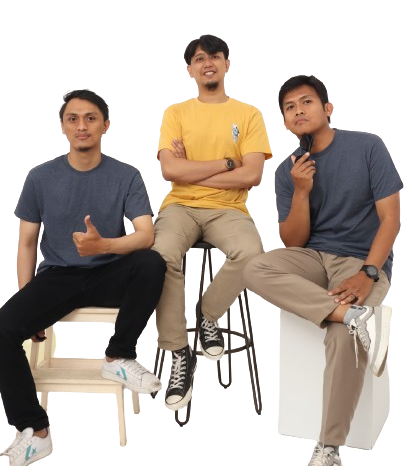
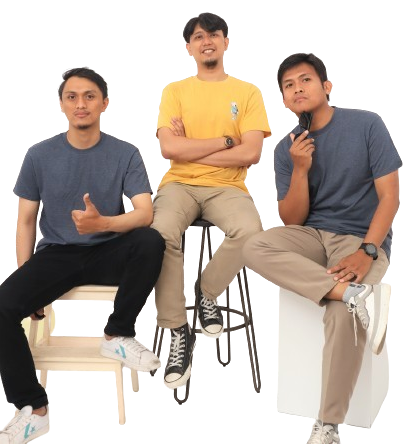
new update home and update member

diff --git a/resources/views/fe/index.blade.php b/resources/views/fe/index.blade.php
@@ -195,7 +195,7 @@
                             </div>
                             <div class="about-img-1 tw-h-full  bg-cover wow fadeInLeft" data-wow-delay=".3s" style=" margin-bottom: 0%">
                                 <img src="{{ asset('fe/assets/img/team/aboutteam3.png') }}" alt="about-img"
-                                    style="background-position: center;width:400px;">
+                                    style="background-position: center;width:450px;">
 
                             </div>
                         </div>
@@ -262,26 +262,12 @@
         </div>
         <div class="container">
             <div class=" text-center">
-                <span class="wow fadeInUp tw-text-white tw-text-4xl tw-mb-5 tw-font-semibold">Our offering</span>
+                <span class="wow fadeInUp tw-text-white tw-text-4xl tw-mb-5 tw-font-semibold">Our Offering</span>
                 <h2 class="tw-text-white wow tw-mt-5 fadeInUp" data-wow-delay=".3s">
                     Enhance and Pioneer Using <br> Technology Trends
                 </h2>
             </div>
             <div class="row tw-mt-10">
-                <div class="col-xl-2 col-lg-4 col-md-4 col-sm-6 col-6 wow fadeInUp" data-wow-delay=".2s">
-                    <div class="md:tw-w-2/3 tw-w-full py-2    fadeInUp" data-wow-delay=".2s">
-                        <div class="tw-relative tw-bg-white md:tw-my-10 tw-rounded-lg tw-shadow-lg tw-overflow-hidden">
-                            <div class="tw-flex tw-items-center tw-justify-center tw-py-2 tw-pt-5">
[1 lines of base64/hex data omitted]
-                                    class="tw-w-20 tw-h-20" alt="">
-                            </div>
-                            <div class="tw-text-center tw-py-2">
-                                <h5 class="tw-text-lg tw-font-medium">Vue Js</h5>
-                            </div>
-                        </div>
-                    </div>
-
-                </div>
                 <div class="col-xl-2 col-lg-4 col-md-4 col-sm-6  col-6 wow fadeInUp" data-wow-delay=".2s">
                     <div class="md:tw-w-2/3 tw-w-full py-2 fadeInUp" data-wow-delay=".2s">
                         <div class="tw-relative tw-bg-white md:tw-my-10 tw-rounded-lg tw-shadow-lg tw-overflow-hidden">
@@ -296,6 +282,23 @@
                     </div>
 
                 </div>
+          
+               
+                <div class="col-xl-2 col-lg-4 col-md-4 col-sm-6 col-6  wow fadeInUp" data-wow-delay=".2s">
+                    <div class="md:tw-w-2/3 tw-w-full py-2 fadeInUp" data-wow-delay=".2s">
+                        <div class="tw-relative tw-bg-white md:tw-my-10 tw-rounded-lg tw-shadow-lg tw-overflow-hidden">
+                            <div class="tw-flex tw-items-center tw-justify-center tw-py-2 tw-pt-5">
[1 lines of base64/hex data omitted]
+                                    class="tw-w-20 tw-h-20" alt="">
+                            </div>
+                            <div class="tw-text-center tw-py-2">
+                                <h5 class="tw-text-lg tw-font-medium">CodeIgniter</h5>
+                            </div>
+                        </div>
+                    </div>
+
+                </div>
+                
                 <div class="col-xl-2 col-lg-4 col-md-4 col-sm-6 col-6 wow fadeInUp" data-wow-delay=".2s">
                     <div class="md:tw-w-2/3 tw-w-full py-2 fadeInUp" data-wow-delay=".2s">
                         <div class="tw-relative tw-bg-white md:tw-my-10 tw-rounded-lg tw-shadow-lg tw-overflow-hidden">
@@ -305,6 +308,20 @@
                             </div>
                             <div class="tw-text-center tw-py-2">
                                 <h5 class="tw-text-lg tw-font-medium">Flutter</h5>
+                            </div>
+                        </div>
+                    </div>
+
+                </div>
+                <div class="col-xl-2 col-lg-4 col-md-4 col-sm-6 col-6 wow fadeInUp" data-wow-delay=".2s">
+                    <div class="md:tw-w-2/3 tw-w-full py-2    fadeInUp" data-wow-delay=".2s">
+                        <div class="tw-relative tw-bg-white md:tw-my-10 tw-rounded-lg tw-shadow-lg tw-overflow-hidden">
+                            <div class="tw-flex tw-items-center tw-justify-center tw-py-2 tw-pt-5">
[1 lines of base64/hex data omitted]
+                                    class="tw-w-20 tw-h-20" alt="">
+                            </div>
+                            <div class="tw-text-center tw-py-2">
+                                <h5 class="tw-text-lg tw-font-medium">Vue Js</h5>
                             </div>
                         </div>
                     </div>
@@ -352,20 +369,7 @@
                     </div>
 
                 </div>
-                <div class="col-xl-2 col-lg-4 col-md-4 col-sm-6 col-6  wow fadeInUp" data-wow-delay=".2s">
-                    <div class="md:tw-w-2/3 tw-w-full py-2 fadeInUp" data-wow-delay=".2s">
-                        <div class="tw-relative tw-bg-white md:tw-my-10 tw-rounded-lg tw-shadow-lg tw-overflow-hidden">
-                            <div class="tw-flex tw-items-center tw-justify-center tw-py-2 tw-pt-5">
[1 lines of base64/hex data omitted]
-                                    class="tw-w-20 tw-h-20" alt="">
-                            </div>
-                            <div class="tw-text-center tw-py-2">
-                                <h5 class="tw-text-lg tw-font-medium">CodeIgniter</h5>
-                            </div>
-                        </div>
-                    </div>
-
-                </div>
+               
                 <div class="col-xl-2 col-lg-4 col-md-4 col-sm-6 col-6 wow fadeInUp" data-wow-delay=".2s">
                     <div class="md:tw-w-2/3 tw-w-full py-2 fadeInUp" data-wow-delay=".2s">
                         <div class="tw-relative tw-bg-white md:tw-my-10 tw-rounded-lg tw-shadow-lg tw-overflow-hidden">

diff --git a/resources/views/fe/layout.blade.php b/resources/views/fe/layout.blade.php
@@ -24,6 +24,26 @@
         <link rel="stylesheet" href="https://cdnjs.cloudflare.com/ajax/libs/font-awesome/6.5.2/css/regular.min.css" integrity="sha512-KYEnM30Gjf5tMbgsrQJsR0FSpufP9S4EiAYi168MvTjK6E83x3r6PTvLPlXYX350/doBXmTFUEnJr/nCsDovuw==" crossorigin="anonymous" referrerpolicy="no-referrer" />
         <link rel="stylesheet" href="https://cdnjs.cloudflare.com/ajax/libs/font-awesome/6.5.2/css/solid.min.css" integrity="sha512-Hp+WwK4QdKZk9/W0ViDvLunYjFrGJmNDt6sCflZNkjgvNq9mY+0tMbd6tWMiAlcf1OQyqL4gn2rYp7UsfssZPA==" crossorigin="anonymous" referrerpolicy="no-referrer" />
         @vite('resources/css/app.css')
+        <style>
+            .floating {
+                position: fixed;
+                width: 60px;
+                height: 60px;
+                bottom: 40px;
+                right: 40px;
+                background-color: #25d366;
+                color: #fff;
+                border-radius: 50px;
+                text-align: center;
+                font-size: 30px;
+                box-shadow: 2px 2px 3px #999;
+                z-index: 100;
+                }
+
+                .fab-icon {
+                margin-top: 16px;
+                }
+        </style>
     </head>
     <body>
 
@@ -252,10 +272,7 @@
                                     </li>
                                
                                     <li>
-                                        <a href="contact.html">
-                                            <i class="fa-solid fa-chevron-right"></i>
-                                            Contact Us
-                                        </a>
+                                        
                                     </li>
                                 </ul>
                             </div>
@@ -345,6 +362,11 @@
                 </a>
             </div>
         </footer>
+        {{-- float icon wa using tailwind prefix tw---}}
+        <a href="https://wa.me/085317713639" class="floating" target="_blank">
+            <i class="fab fa-whatsapp fab-icon"></i>
+            </a>
+        
 
         <!--<< All JS Plugins >>-->
         <script src="{{asset('fe/assets/js/jquery-3.7.1.min.js')}}"></script>

diff --git a/resources/views/fe/member/detail.blade.php b/resources/views/fe/member/detail.blade.php
@@ -63,7 +63,6 @@
                     <p class="mt-3">
                         {{$item->description}}
                     </p>
-                  
                 </div>
                 @endforeach
             @endif
